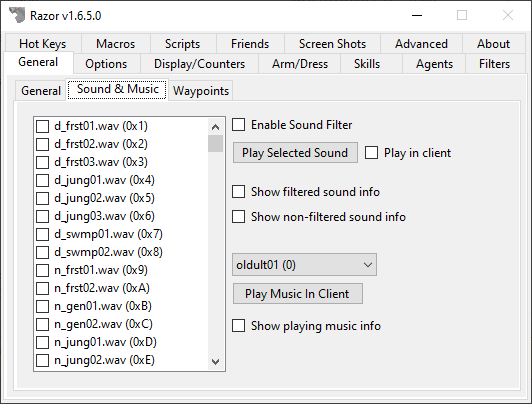
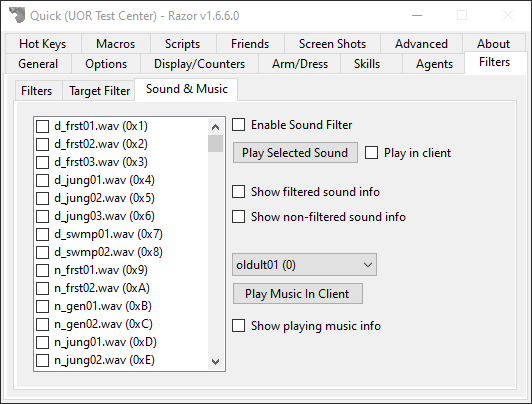
Moved Sound/Music to main Filter tab, updated docs

diff --git a/Razor/UI/Razor.Designer.cs b/Razor/UI/Razor.Designer.cs
@@ -883,7 +883,6 @@ namespace Assistant
             // subGeneralTab
             // 
             this.subGeneralTab.Controls.Add(this.subGenTab);
-            this.subGeneralTab.Controls.Add(this.subSoundMusicTab);
             this.subGeneralTab.Controls.Add(this.subWaypoints);
             this.subGeneralTab.Location = new System.Drawing.Point(6, 3);
             this.subGeneralTab.Name = "subGeneralTab";
@@ -3500,6 +3499,7 @@ namespace Assistant
             // 
             this.filterTabs.Controls.Add(this.subFilterTab);
             this.filterTabs.Controls.Add(this.subFilterTargets);
+            this.filterTabs.Controls.Add(this.subSoundMusicTab);
             this.filterTabs.Location = new System.Drawing.Point(6, 3);
             this.filterTabs.Name = "filterTabs";
             this.filterTabs.SelectedIndex = 0;

diff --git a/help/docs/help/general.md b/help/docs/help/general.md
@@ -114,21 +114,6 @@ Razor's Ultima Online Position System (UOPS) gives you a basic map.
 * Opacity
     - Adjust the transparency of Razor. Useful on a single monitor.
 
-## Sound & Music
-
-![sound](../images/soundmusic.png)
-
-* Enable Sound Filter
-    - When checked, sounds that are checked will be blocked from playing in the client.
-* Play Selected Sound
-    - Listen to the selected sound. If you check `Play in client` the sound will play in the client if logged in.
-* Show filtered sound info
-    - If a sound is blocked, show the name in system messages.
-* Show non-filtered sound info
-    - If a sound plays, show the name in system messages.
-* Play Music In Client
-    - Plays the specific song in the client if logged in.
-
 ## Waypoints
 
 ![waypoints](../images/waypoints.png)

diff --git a/help/docs/help/filters.md b/help/docs/help/filters.md
@@ -37,3 +37,18 @@ Mobiles on this list will be ignored completely by Razor.
 
 !!! tip
     This feature is intended to be used to add NPCs that might be picked up during events that take place in towns or where NPCs are.
+
+## Sound & Music
+
+![sound](../images/soundmusic.png)
+
+* Enable Sound Filter
+    - When checked, sounds that are checked will be blocked from playing in the client.
+* Play Selected Sound
+    - Listen to the selected sound. If you check `Play in client` the sound will play in the client if logged in.
+* Show filtered sound info
+    - If a sound is blocked, show the name in system messages.
+* Show non-filtered sound info
+    - If a sound plays, show the name in system messages.
+* Play Music In Client
+    - Plays the specific song in the client if logged in.
